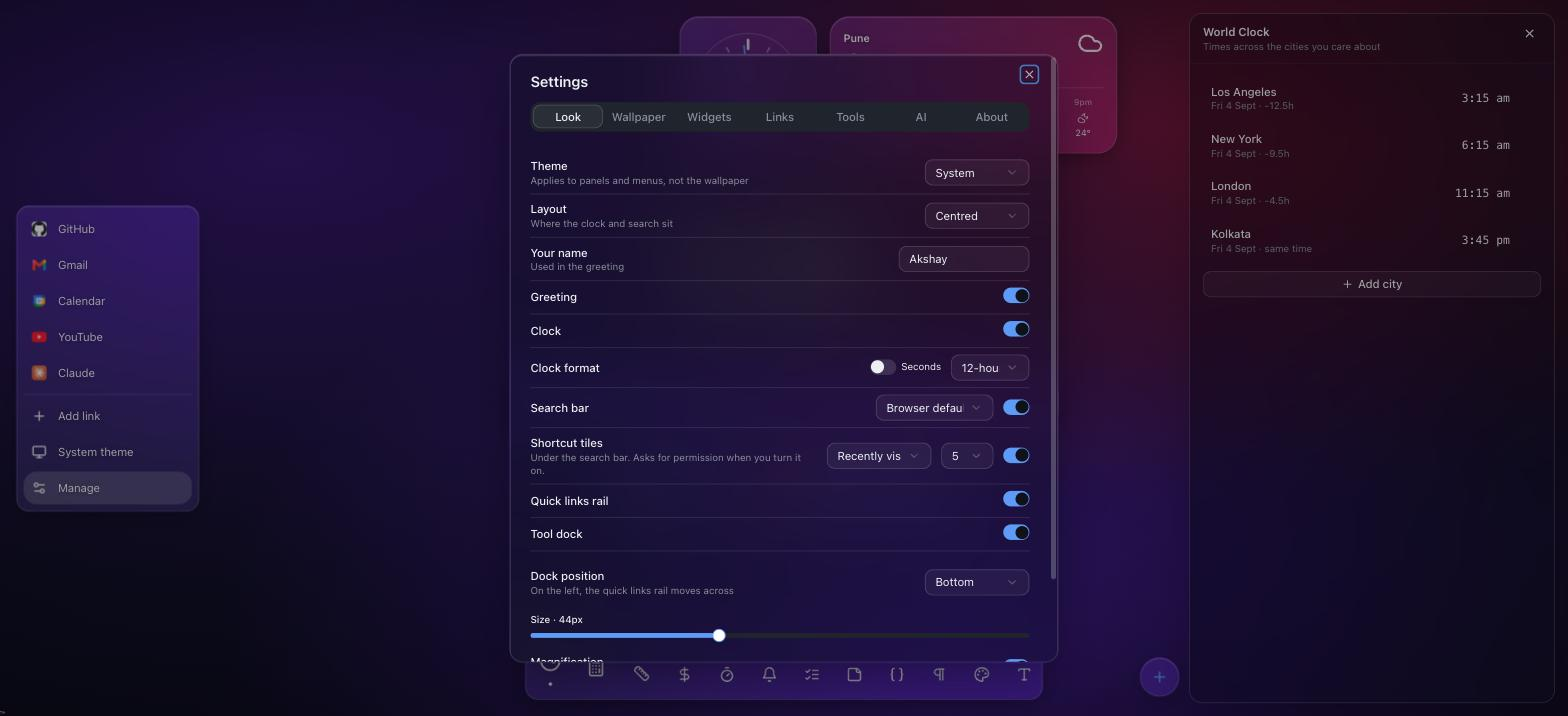
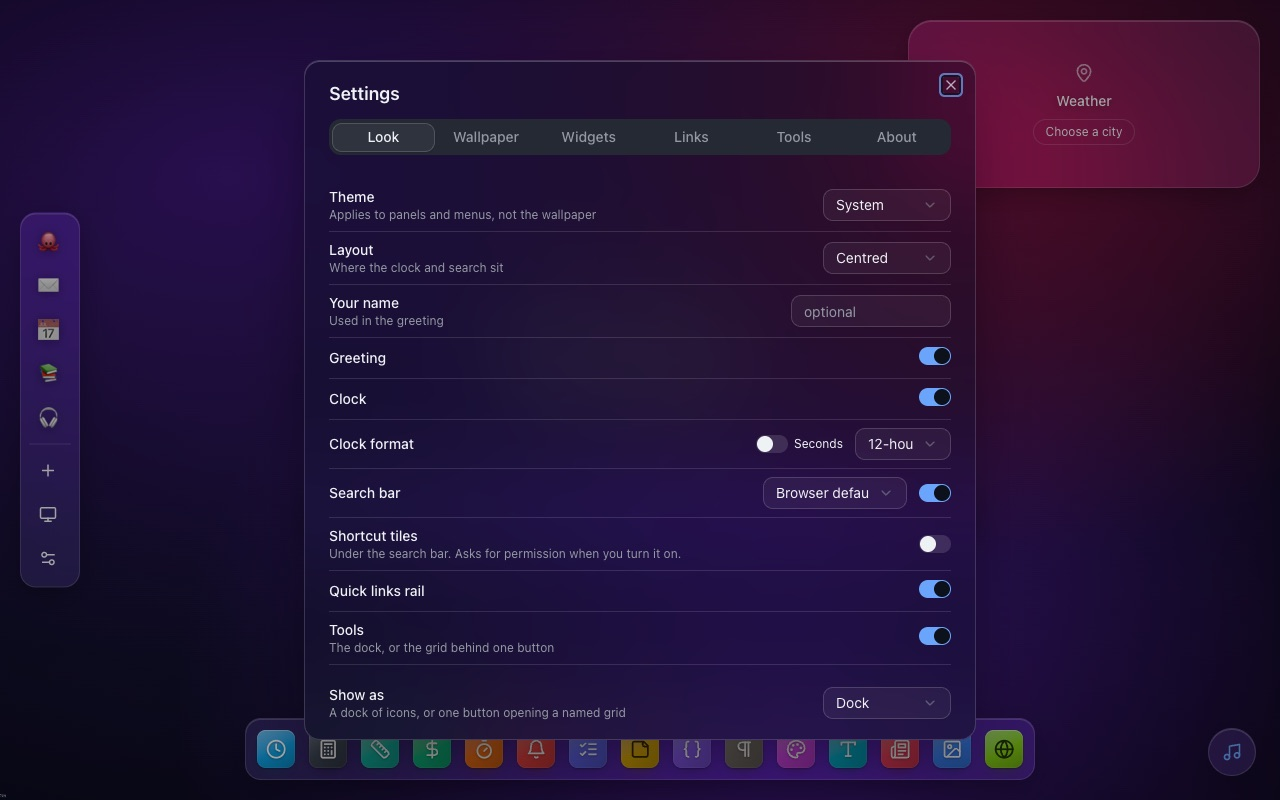
screenshots retaken against 1.0.0
Every one of them showed something that no longer exists: the AI tab in
settings, the "Ask" button, the old plus-shaped trigger, an eleven icon
dock. A listing image of a feature the package does not have is a
rejection, so these could not ship as they were.

Captured at exactly 1280x800, which is one of the two sizes the store
accepts, by driving headless Chrome over CDP - a window screenshot is
whatever size the window happens to be.

The chat shot is replaced by the image editor, and the old action menu
by the tool grid, which is what that corner does now. The store set is
renumbered 1-5 around the change.

Quick links show emoji icons rather than fetched favicons: the icon
services cannot be read cross-origin from the local preview, and letters
standing in for icons would show a failure state the product does not
have.

diff --git a/docs/screenshots/README.md b/docs/screenshots/README.md
@@ -1,21 +1,23 @@
 # Screenshots
 
-These are listing and README assets, captured by hand. They have to be
-re-taken whenever the interface they show changes - an image of a feature
-the package no longer has is a listing rejection, not just a stale doc.
+Captured at **1280x800**, the size the Chrome Web Store accepts (it takes
+1280x800 or 640x400 and nothing else). Re-take them whenever the interface
+they show changes: an image of a feature the package no longer has is a
+listing rejection, not just a stale doc.
 
-Re-capture at **1280x800** (the Chrome Web Store accepts 1280x800 or
-640x400, nothing else) on a clean profile with a wallpaper you are happy
-to publish.
-
-| File | Must show |
+| File | Shows |
 |---|---|
-| `new-tab.jpg` | The whole page: clock, search, quick links rail, dock. The button in the bottom-right corner is the music button - a single circle with a music glyph, not a `+`. |
-| `tools-dock.jpg` | A tool open in the drawer with the dock magnifying under the pointer. The dock has 15 coloured tiles. |
+| `new-tab.jpg` | The page: clock, search, quick-link rail, dock, weather card. |
+| `tools-dock.jpg` | World Clock open in the drawer, comparing four zones. |
 | `music.jpg` | The music drawer with a playlist queued. |
-| `action-menu.jpg` | The music button in the corner. It no longer fans out into a menu; if a second image is wanted here, the tool grid is the better subject. |
-| `settings.jpg` | The settings dialog. Six tabs: Look, Wallpaper, Widgets, Links, Tools, About. There is no AI tab. |
+| `tool-grid.jpg` | The grid layout, every tool named. |
+| `editor.jpg` | The image editor with an arrow selected. |
+| `settings.jpg` | Settings. Six tabs: Look, Wallpaper, Widgets, Links, Tools, About. |
 
-The numbered set in `../store/` is the same pictures sized for the store
-listing, and `4-chat.png` was deleted with the feature it showed - so the
-remaining files are 1, 2, 3 and 5. Renumber them when you next upload.
+`../store/` holds the same shots as PNG, numbered for the listing upload:
+1 new tab, 2 tools, 3 music, 4 editor, 5 settings.
+
+The quick links in these shots use emoji icons rather than fetched
+favicons - the icon services cannot be read cross-origin from the local
+preview, and letters standing in for icons would show a failure state the
+product does not have.

diff --git a/README.md b/README.md
@@ -27,10 +27,12 @@ tools - on every new tab.
 
 |  |  |
 |---|---|
-| <img src="docs/screenshots/tools-dock.jpg" alt="World Clock open in the drawer, with the dock magnifying under the pointer"> | <img src="docs/screenshots/music.jpg" alt="The music drawer with a YouTube playlist queued"> |
-| **Tools in a drawer.** The dock magnifies under the pointer like the macOS one, or collapses into a labelled grid. | **Music without video.** A YouTube playlist, cover art and a queue - playback survives closing the drawer. |
-| <img src="docs/screenshots/action-menu.jpg" alt="The music button in the corner of the new tab"> | <img src="docs/screenshots/settings.jpg" alt="The settings dialog over a blurred new tab"> |
-| **Music in the corner.** One circular button, out of the way until you want it. | **Everything is a setting.** Glass panels tint to the wallpaper's measured luminance, not the UI theme. |
+| <img src="docs/screenshots/tools-dock.jpg" alt="World Clock open in the drawer, comparing four time zones on a shared strip"> | <img src="docs/screenshots/music.jpg" alt="The music drawer with a YouTube playlist queued"> |
+| **Tools in a drawer.** Each one opens beside the page rather than in a popup. The World Clock compares zones on a shared strip - one column is one instant, everywhere. | **Music without video.** A YouTube playlist, cover art and a queue - playback survives closing the drawer. |
+| <img src="docs/screenshots/tool-grid.jpg" alt="The tool grid: every tool as a labelled tile"> | <img src="docs/screenshots/editor.jpg" alt="The image editor with an arrow drawn over a picture and its colour controls"> |
+| **A dock, or a grid.** The dock magnifies under the pointer like the macOS one; the grid puts every tool behind one button, named. | **An image editor that uploads nothing.** Crop, straighten, grade, and annotate with text, arrows and freehand - all of it on your machine. |
+| <img src="docs/screenshots/settings.jpg" alt="The settings dialog over a blurred new tab"> | |
+| **Everything is a setting.** Glass panels tint to the wallpaper's measured luminance, not the UI theme. | |
 
 ---
 
